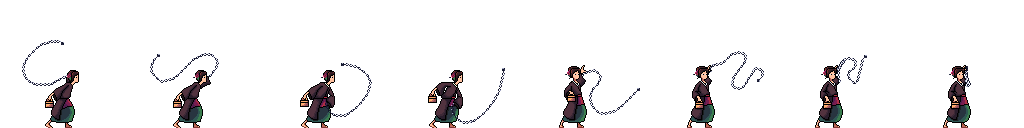
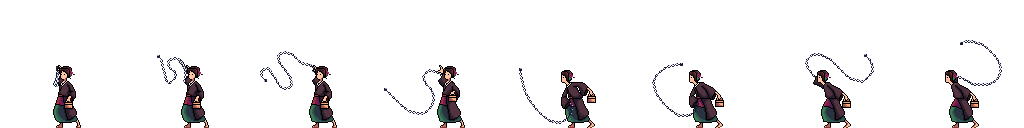
All Enemy Animations Added and Collision Detection For Enemy Working

diff --git a/sketch.js b/sketch.js
@@ -33,23 +33,30 @@ let shinso;
 let followDistance;
 
 function preload() {
+  //Player Sprite Sheets
   runRight = loadImage("assets/Run.png");
   idlePos = loadImage("assets/Idle.png");
   jumpPos = loadImage("assets/Jump.png");
   runBack = loadImage("assets/runB.png");
   crouch = loadImage("assets/Disguise.png");
   jumpPosB = loadImage("assets/jumpB.png"); 
-  bgImage = loadImage("assets/moutian-pixel.gif");
-  bgImage2 = loadImage("assets/city-pixle.gif");
   defaultAttack = loadImage("assets/Attack_2.png");
   idleb = loadImage("assets/idle.b.png");
   jumpup = loadImage("assets/Up.png");
   jumpDown = loadImage("assets/Down.png"); 
   jumpupb = loadImage("assets/Upb.png");
 
-  enemeyIdle = loadImage("assetsE/Idle.png"); 
+  //Enemy Sprite Sheets 
+  enemeyIdle = loadImage("assetsE/Idle.png");
+  enemyRun = loadImage("assetsE/Run.png"); 
+  enemyJump = loadImage("assetsE/Jumpup.png");
+  enemyAttack1 = loadImage("assetsE/Attack_2.png");
+  enemyFall = loadImage("assetsE/Fall.png");
+  enemyRunback = loadImage("assetsE/Runback.png")
   
-
+  //Background Gifs 
+  bgImage = loadImage("assets/moutian-pixel.gif");
+  bgImage2 = loadImage("assets/city-pixle.gif");
 
 
 
@@ -123,7 +130,7 @@ function setup() {
       y: 0
     },
     position: {
-      x: 0, 
+      x: width - 128, 
       y: 0
     },
 
@@ -141,27 +148,27 @@ function setup() {
       },
       
       run:{
-        imageSrc: runRight,
-        framesMax: 6
+        imageSrc: enemyRunback,
+        framesMax: 8
       },
       runback: {
-        imageSrc: runBack, 
-        framesMax: 6
+        imageSrc: enemyRun, 
+        framesMax: 8
       },
 
       
       defaultAttack1: {
-        imageSrc: defaultAttack, 
-        framesMax: 3
+        imageSrc: enemyAttack1, 
+        framesMax: 8
       },
       
       jumpUp: {
-        imageSrc: jumpup, 
+        imageSrc: enemyJump, 
         framesMax: 1
       },
       
       fallDown: {
-        imageSrc: jumpDown,
+        imageSrc: enemyFall,
         framesMax: 1
       },
     }
@@ -208,6 +215,14 @@ function draw() {
     else if (playerEx.velocity.y > 0) {
       playerEx.switchSprite('Down'); 
     }
+    
+    // if (shinso.velocity.y < 0) {
+    //   shinso.switchanimation('Up'); 
+    // }
+    // else if (shinso.velocity.y > 0) {
+    //   shinso.switchanimation('Down'); 
+    // }
+
 
     // collision detection
   if (rectCol({rectangle1: playerEx, rectangle2: shinso}) && playerEx.isAttacking) {
@@ -245,6 +260,10 @@ window.addEventListener('keydown', (event) => {
   case "e":
     playerEx.attack();
     break;
+
+  case "f": 
+    shinso.attack(); 
+    break; 
   }
 });
 

diff --git a/index.html b/index.html
@@ -32,3 +32,5 @@
 
 
 
+
+
